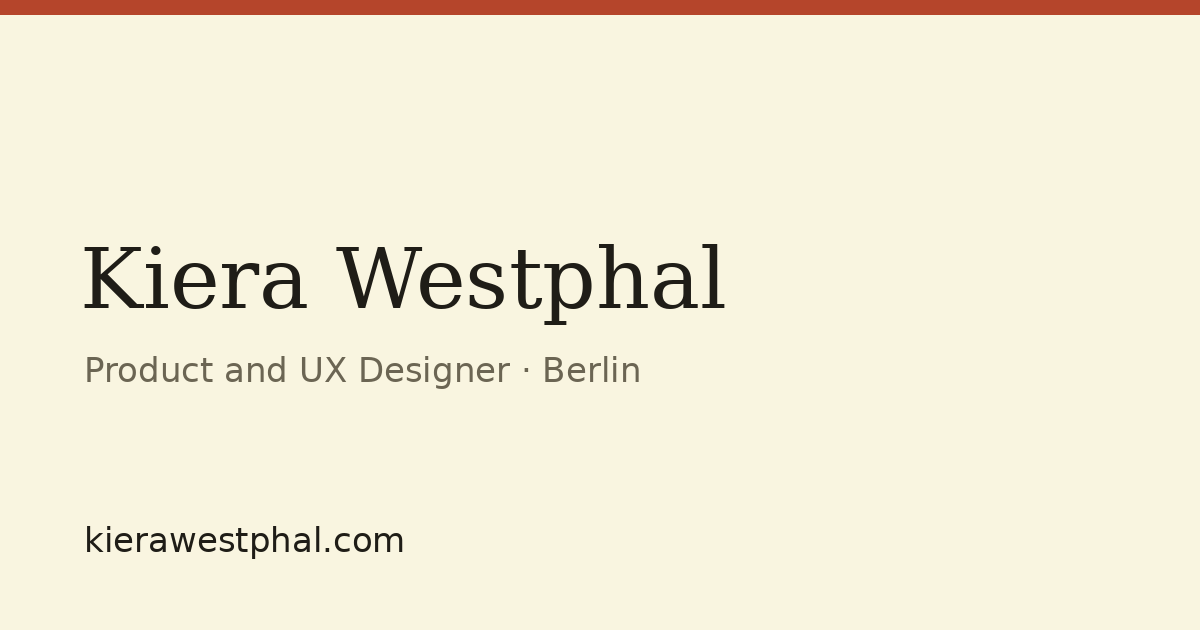
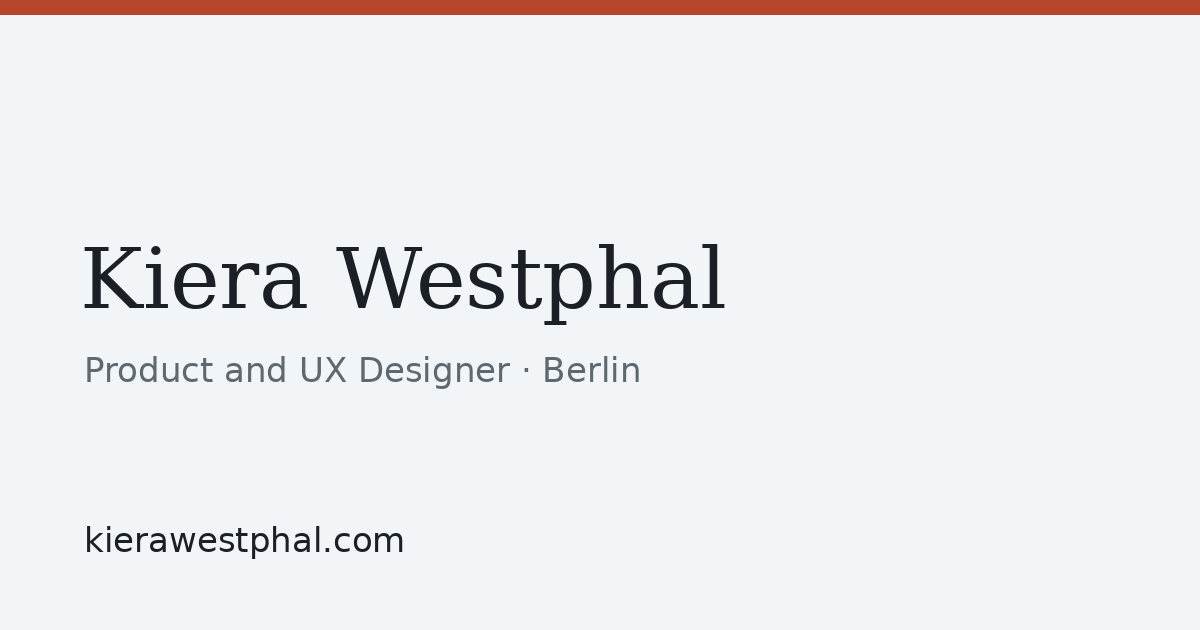
Update headline and switch background to #F2F5F7
Cooler text, rule, and card colors to match the new background;
placeholder images and link-preview image recolored.

Claude-Session: https://claude.ai/code/session_01E1SYBESVZjkS7hAnN2ZAYb

Changed region(s): [[0.0617, 0.573, 0.555, 0.6032]]

diff --git a/theme/style.css b/theme/style.css
@@ -1,13 +1,13 @@
 /* kierawestphal.com — theme
-   The background color is set in content/site.md (background: #F9F5E0)
+   The background color is set in content/site.md (background: #F2F5F7)
    and copied into --bg below when the site is built. */
 
 :root {
-  --bg: #F9F5E0;
-  --ink: #1f1d17;
-  --muted: #6b6553;
-  --rule: #d9d2b4;
-  --card: #fffdf3;
+  --bg: #F2F5F7;
+  --ink: #1b2026;
+  --muted: #5d6870;
+  --rule: #d4dce2;
+  --card: #ffffff;
   --accent: #b5452b;
   --serif: "Iowan Old Style", "Palatino Linotype", Palatino, Charter, "Bitstream Charter", Georgia, serif;
   --sans: ui-sans-serif, -apple-system, "Segoe UI", Roboto, "Helvetica Neue", Arial, sans-serif;

diff --git a/build.js b/build.js
@@ -113,7 +113,7 @@ function layout({ title, description, urlPath, body, image, type = "website", sc
 <meta name="description" content="${escapeHtml(desc)}">
 <meta name="author" content="${escapeHtml(SITE.name)}">
 <link rel="canonical" href="${canonical}">
-<meta name="theme-color" content="${SITE.background || "#F9F5E0"}">
+<meta name="theme-color" content="${SITE.background || "#F2F5F7"}">
 <meta property="og:type" content="${type}">
 <meta property="og:site_name" content="${escapeHtml(SITE.name)}">
 <meta property="og:title" content="${escapeHtml(fullTitle)}">

diff --git a/README.md b/README.md
@@ -46,7 +46,7 @@ Every time you press **Save** in the CMS, the change is committed to this reposi
 **Site settings & SEO**
 
 Your name, domain (`kierawestphal.com`), email (`k@kierawestphal.com`), the Google description,
-link-preview image, profile links, and background color (`#F9F5E0`) are all set here.
+link-preview image, profile links, and background color (`#F2F5F7`) are all set here.
 Every page title, meta description, canonical link, Open Graph/Twitter tag, structured data, sitemap, and email link
 is generated from these values, so change them in this one place only.
 

diff --git a/content/pages/home.md b/content/pages/home.md
@@ -2,7 +2,7 @@
 # HOMEPAGE
 # greeting and headline accept *italic* and **bold**.
 greeting: "**Kiera Westphal** · Product and UX Designer · Berlin"
-headline: Tell Visual Data Stories That Function Well And Reveal Beauty In The Process.
+headline: Tell Visual Data Stories That Function Well and Reveal Beauty In The Process.
 recent_heading: Recent work
 archive_heading: More projects
 ---

diff --git a/content/site.md b/content/site.md
@@ -29,7 +29,7 @@ og_image: /images/og-image.png
 favicon: /images/favicon.svg
 
 # Page background color
-background: "#F9F5E0"
+background: "#F2F5F7"
 
 # Language for search engines (en = English, de = German)
 language: en
